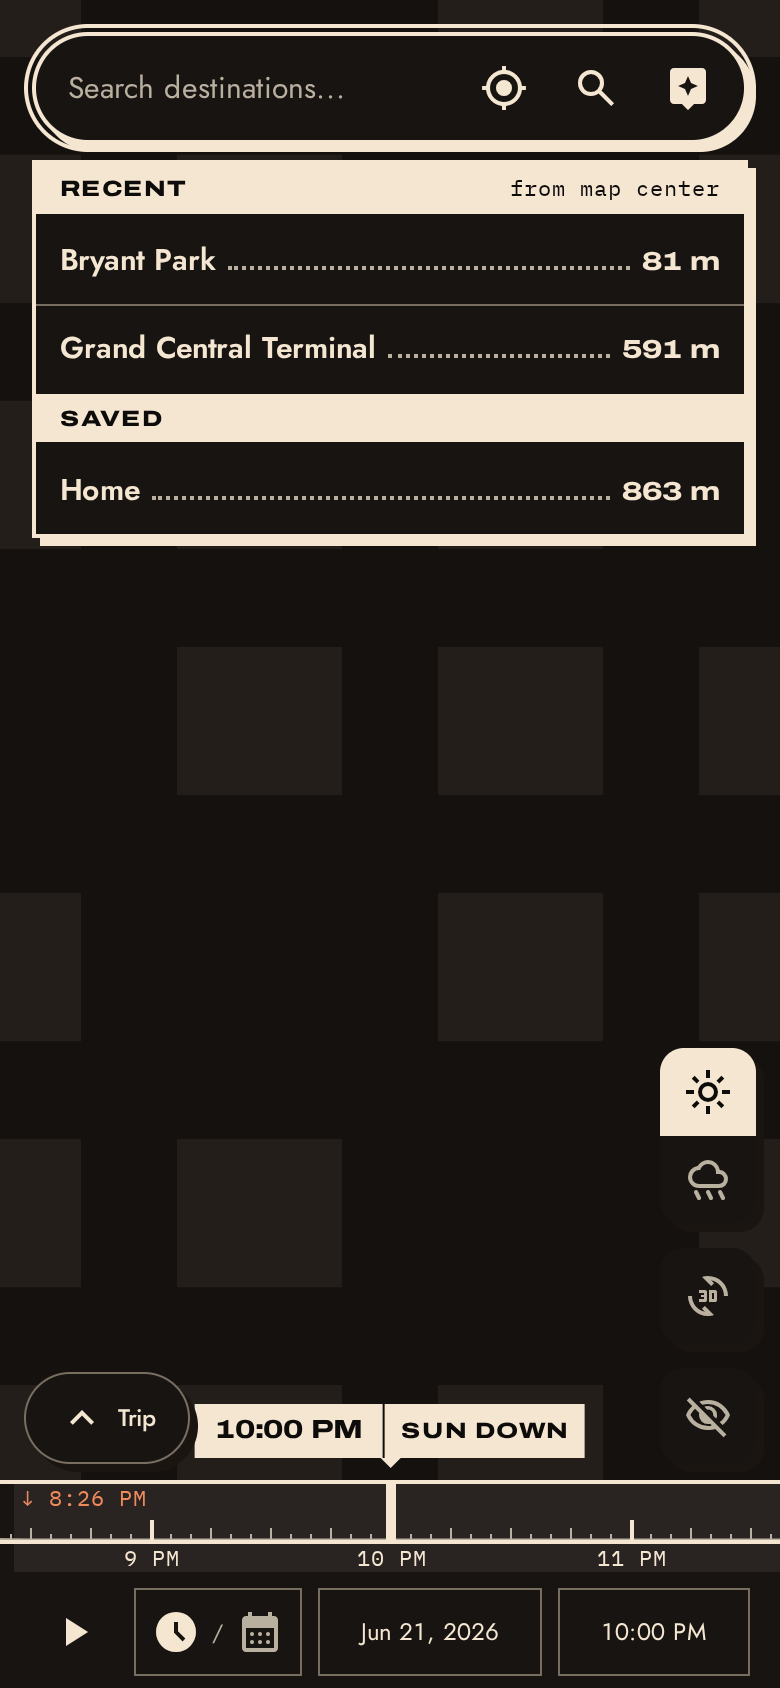
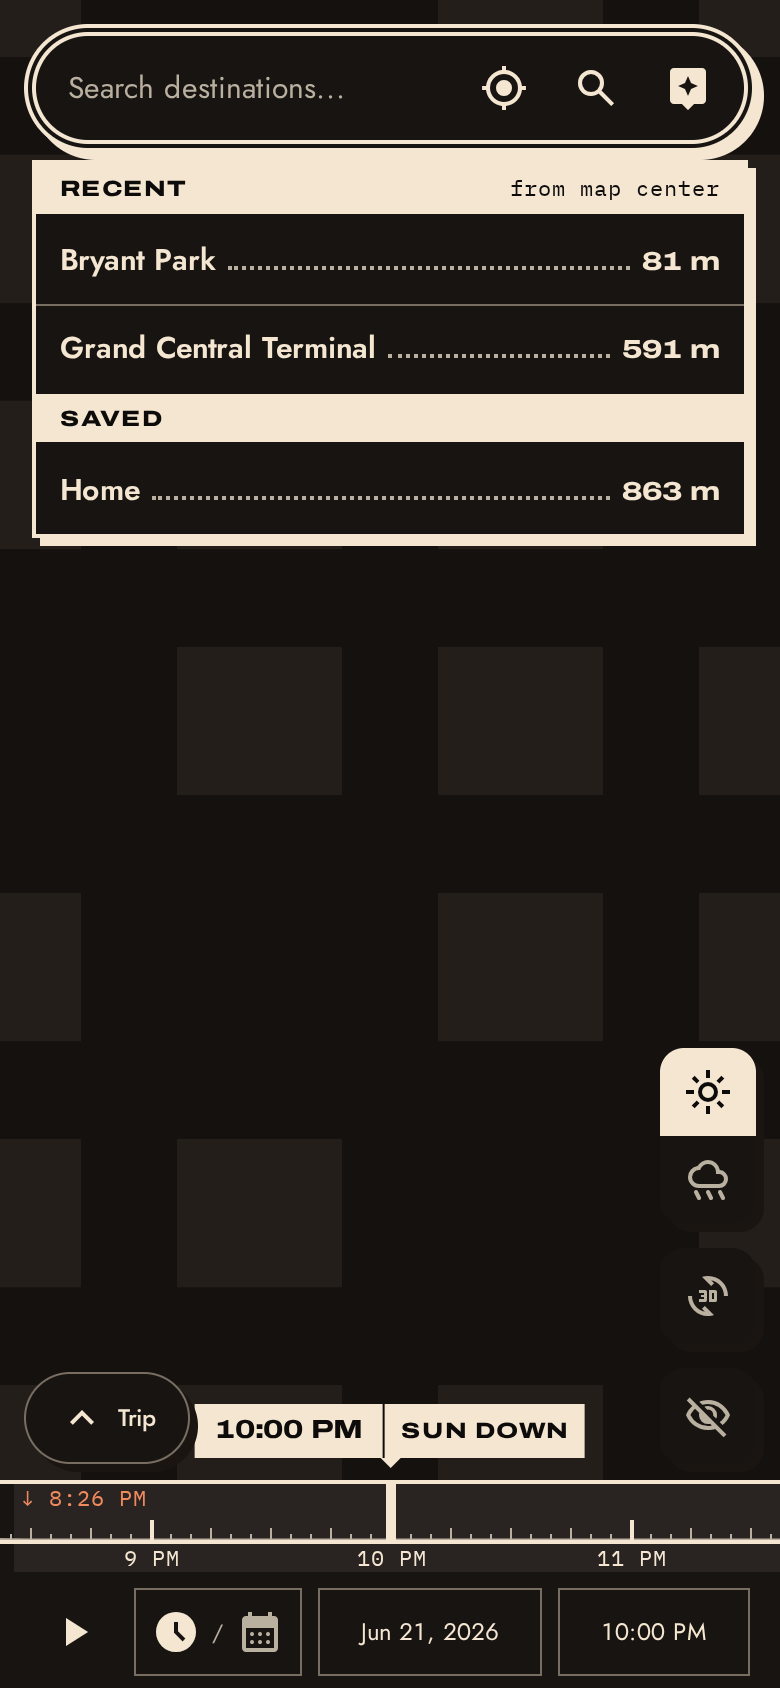
fix(design): fill the focused search pill's ring with the panel

Changed region(s): [[0.0615, 0.0308, 0.9846, 0.0924]]

diff --git a/app/globals.css b/app/globals.css
@@ -524,6 +524,18 @@ body {
   }
   .umbra-start-button:focus-visible { outline: 2px solid var(--color-ink); outline-offset: 2px; }
 
+  /* The search pill: solid panel, 2px ink rule, hard offset shadow. While its field has
+     focus a solid panel band and an ink ring wrap it, with the shadow pushed past the ring,
+     so the map never shows between pill and ring. */
+  .umbra-search-pill {
+    border: 2px solid var(--color-ink);
+    background: var(--color-panel);
+    box-shadow: var(--shadow-hard-2);
+  }
+  .umbra-search-pill:has(input:focus) {
+    box-shadow: 0 0 0 2px var(--color-panel), 0 0 0 4px var(--color-ink), 4px 4px 0 4px var(--color-ink);
+  }
+
   /* Segmented control (ui/Segmented): square, ≥44px rows, selected = full ink
      inversion, inset focus ring, disabled text stays at the readable 75% role. */
   .umbra-segmented {

diff --git a/app/components/SearchBar.tsx b/app/components/SearchBar.tsx
@@ -429,8 +429,7 @@ export default function SearchBar({ onSelect, mapCenter, onClearPanel, onMenuTog
       {/* The one search pill: solid panel, 2px ink rule, hard offset shadow, ringed
           while the field has focus; every control in it is a 44px square target. */}
       <div
-        className="w-full flex items-center rounded-full h-14 px-1.5 gap-0.5 border-2 has-[input:focus]:outline-2 has-[input:focus]:outline-offset-2 has-[input:focus]:outline-ink"
-        style={{ background: "var(--color-panel)", borderColor: "var(--color-ink)", boxShadow: "var(--shadow-hard-2)" }}
+        className="umbra-search-pill w-full flex items-center rounded-full h-14 px-1.5 gap-0.5"
       >
         {/* Hamburger — toggles desktop sidebar */}
         {onMenuToggle && (

diff --git a/docs/tracks/TRACK_R.md b/docs/tracks/TRACK_R.md
@@ -27,7 +27,7 @@ inspiration; the public mirror publishes everything here.
 - **Active checkpoint:** R7a (#172), the first slice of R7 (search, place detail,
   assistant), split into R7a search (#172), R7b PlaceDetail (#173) and R7c assistant
   leaflet (#174). The search pill is one solid panel pill with a 2px ink rule and the hard
-  offset shadow (no blur or translucency), ringed while its field has focus; each icon in it
+  offset shadow (no blur or translucency); while its field has focus a solid panel band and an ink ring wrap it (owner request: no map showing through); each icon in it
   is a square 44px target. Recent/Saved, the Foursquare typeahead and the merged submit
   results are one square directory: an ink header band (Archivo kicker: Recent, Saved,
   Places nearby or Directory, with an IBM Plex Mono "from map center" note when the row
